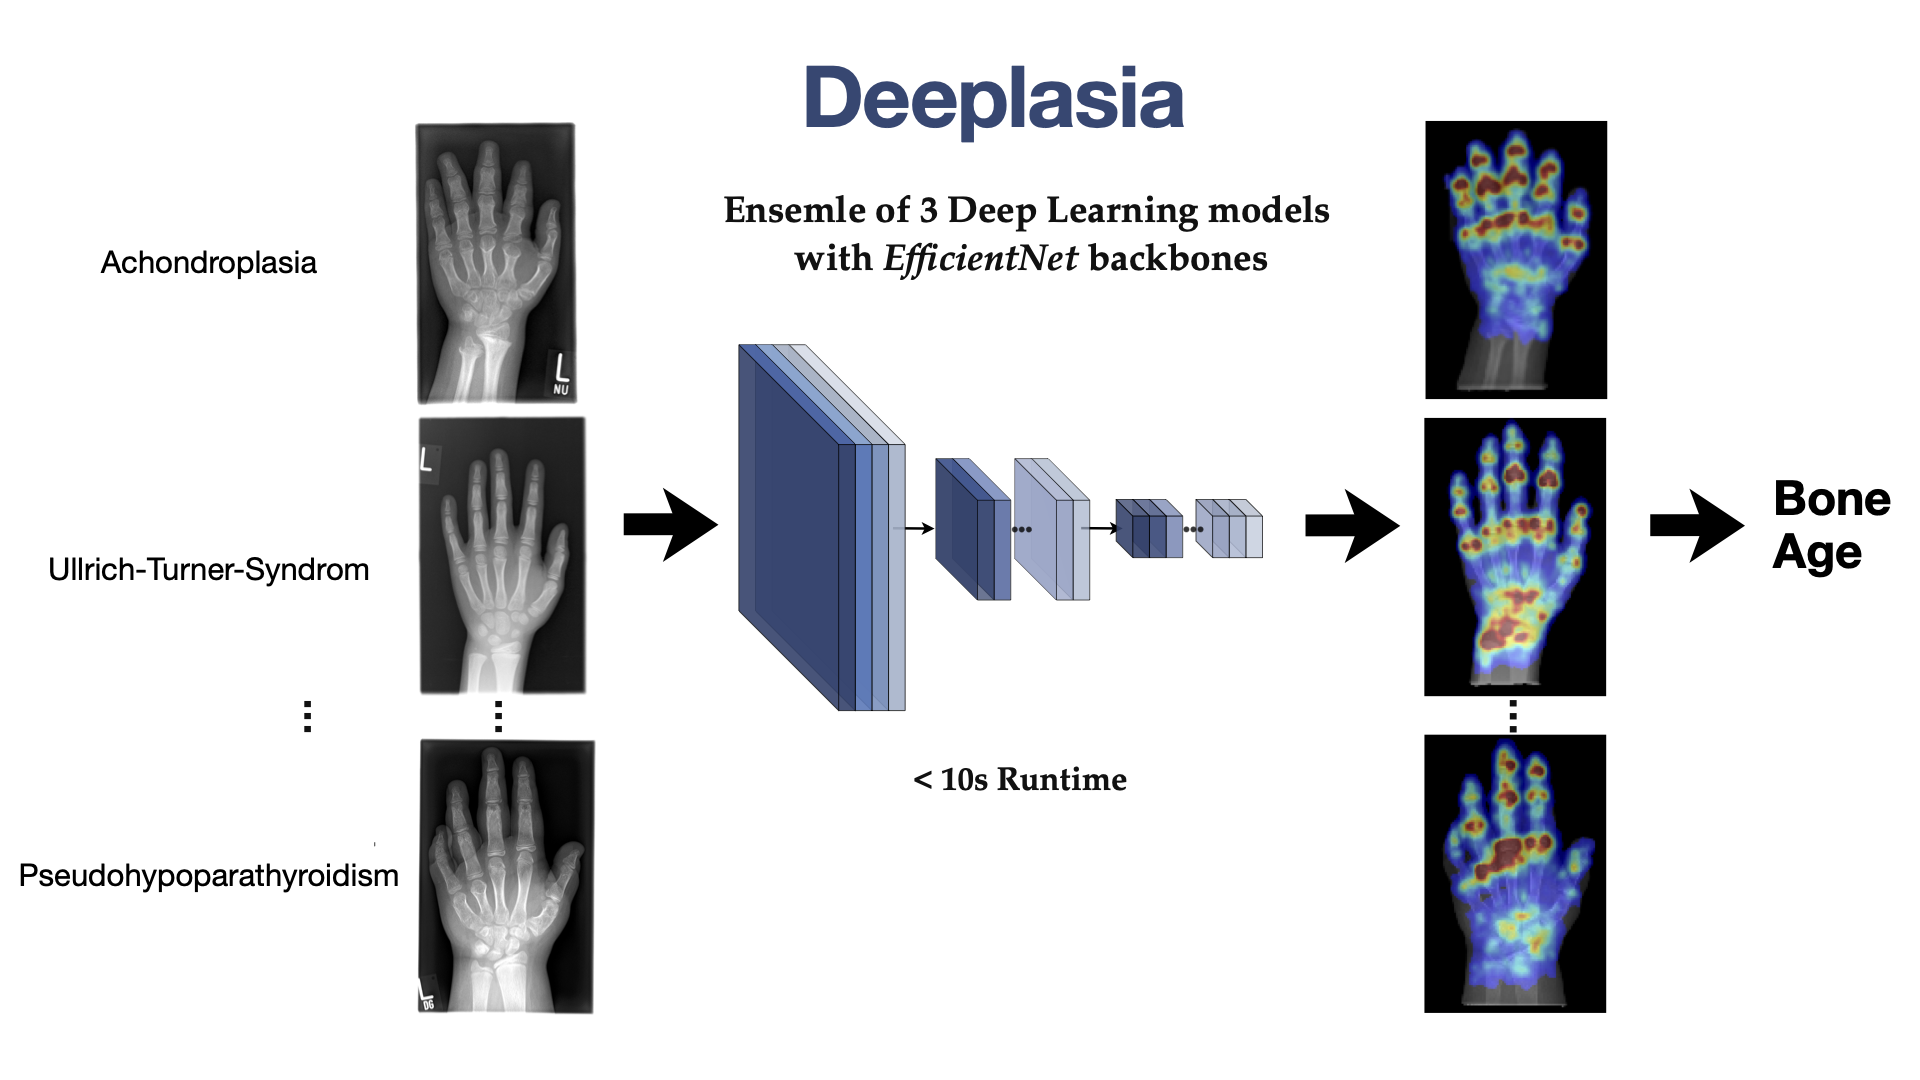
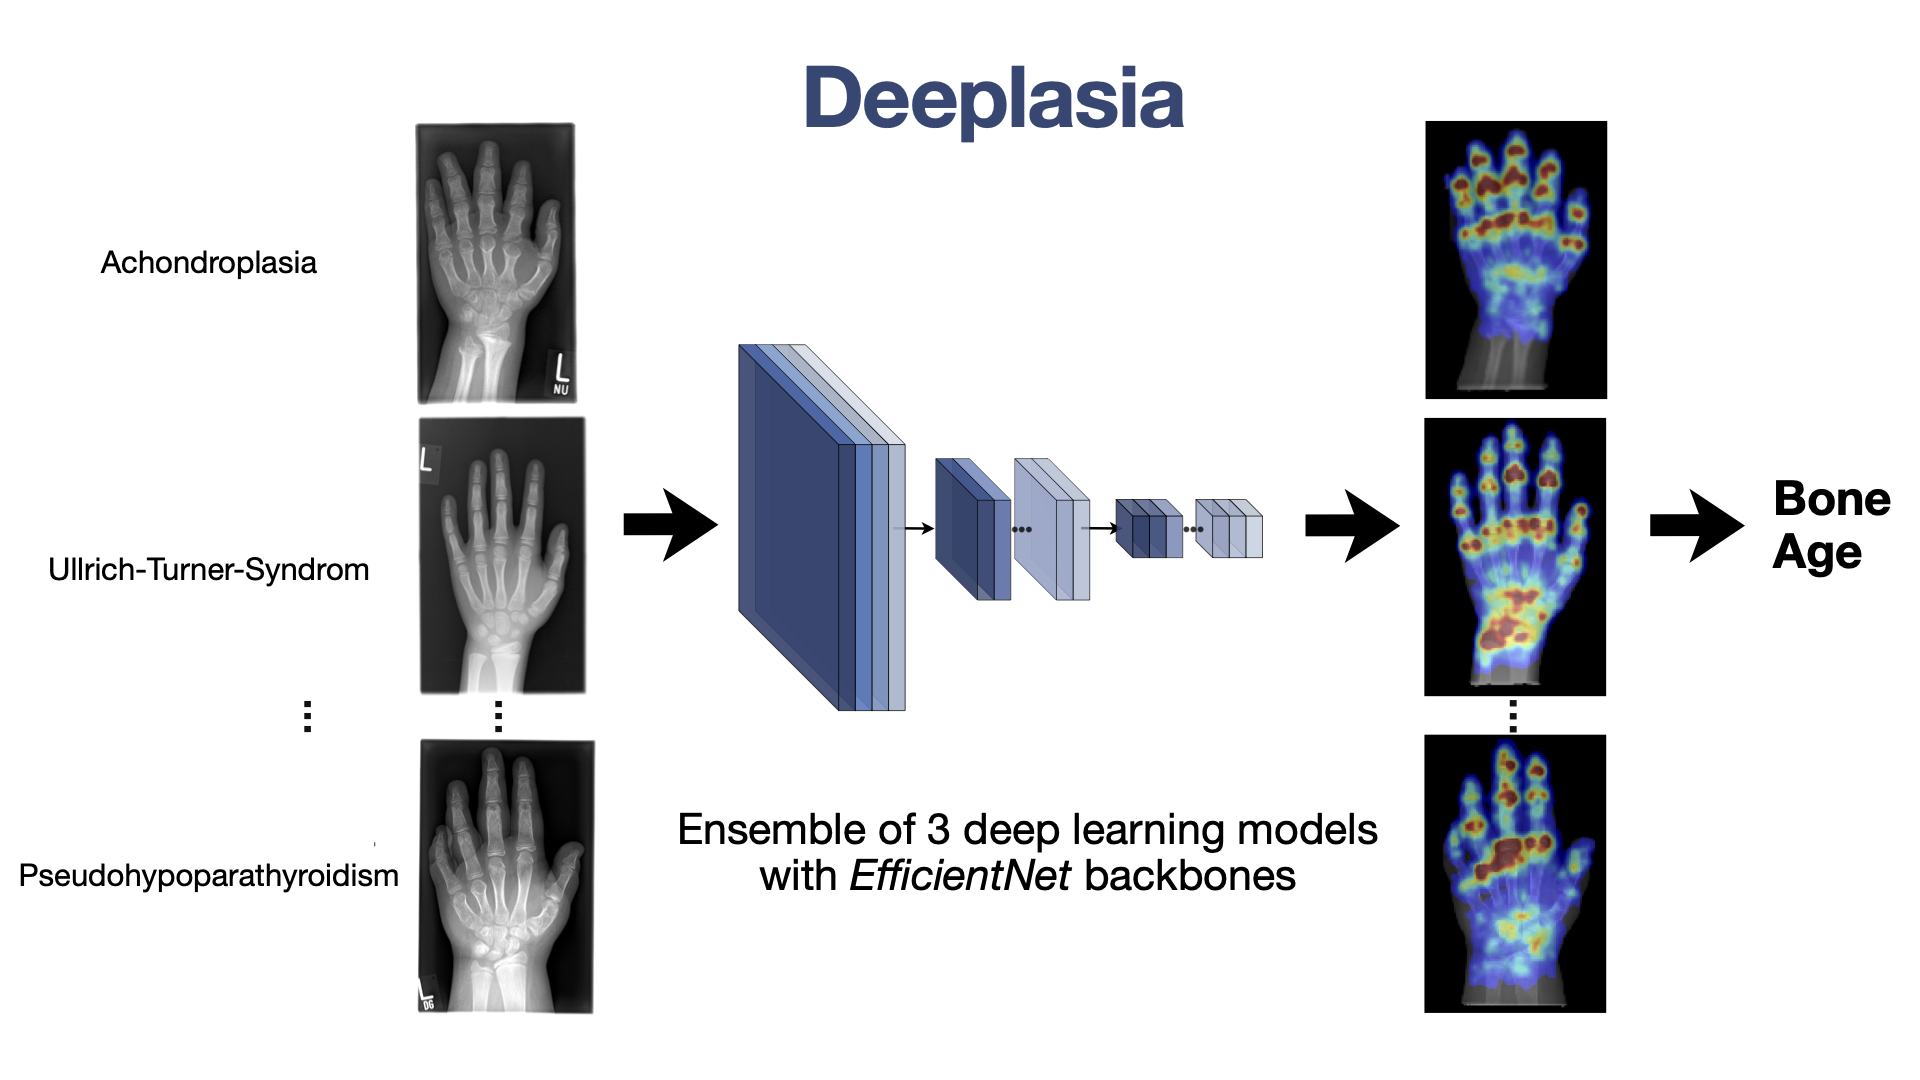
update fig and text
visual summary figure and bullet points texts

Changed region(s): [[0.3438, 0.7028, 0.7188, 0.825], [0.375, 0.1833, 0.6875, 0.275]]

diff --git a/docs/deeplasia/results.html b/docs/deeplasia/results.html
@@ -52,10 +52,12 @@ Prior-free deep learning for pediatric bone age assessment robust to skeletal dy
   padding: 20px;
   /* margin: 20px;" */
 >
-  <h2> Deeplasia achieves </h2>
-  <li> State-of-the-art performance on the RSNA test set (n=200) with a Mean Absolute Difference (MAD) of 3.87 months.</li>
-  <li> At least human-level performance on seven genetically-caused skeletal malformations (n=568) with MAD of 5.84 months.</li>
-  <li> Validated for longitudinal monitoring of patients with genetic disorders (test-retest error of 2.74 months, n=149).</li>
+  <h2> Deeplasia </h2>
+  <li> achieves state-of-the-art performance on the RSNA test set (n=200) with a Mean Absolute Difference (MAD) of 3.87 months,</li>
+  <li> generalizes to patients from unseen cohorts and with a variety of genetically-confirmed skeletal dysplasias (n=568) with MAD of 5.84 months,</li>
+  <li> is demonstrated to be applicable to longitudinal data from patients with skeletal dysplasias for progressive growth monitoring (test-retest error of 2.74 months, n=149), and </li>
+  <li> can assess the bone age in less than 10 seconds on consumer-grade hardware
+without GPU acceleration.</li>
 </ul>
 
 
@@ -68,7 +70,7 @@ Prior-free deep learning for pediatric bone age assessment robust to skeletal dy
 
 <iframe class="responsive-iframe" src="Bland_Altman.html" width="100%" height="550"></iframe>
 
-<p style="font-size: 120%;margin-top:100px">Deeplasia was developed in the <a href="https://www.igsb.uni-bonn.de/en/team-1/behnam-javanmardi"> Artificial Intelligence in Medical Imaging (AIMI)</a> group at the <a href="https://www.igsb.uni-bonn.de/en"> Institute for Genomic Statistics and Bioinformatics (IGSB)</a> of the University of Bonn.
+<p style="font-size: 120%;margin-top:100px">Deeplasia was developed by the <a href="https://www.igsb.uni-bonn.de/en/team-1/behnam-javanmardi"> Artificial Intelligence in Medical Imaging (AIMI)</a> group at the <a href="https://www.igsb.uni-bonn.de/en"> Institute for Genomic Statistics and Bioinformatics (IGSB)</a> of the University of Bonn.
 </p>
 
 <p style="font-size: 120%;margin-top:20px">Deeplasia is an open-source tool and the codes are accessible via the <a href="https://github.com/aimi-bonn"> AIMI-Bonn GitHub</a>.
